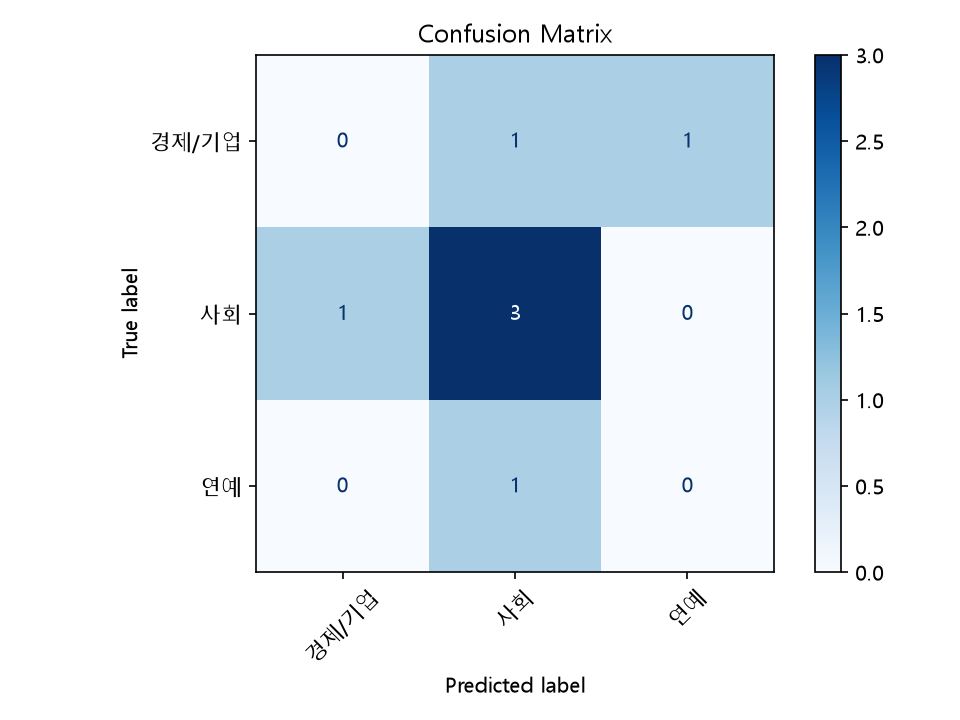
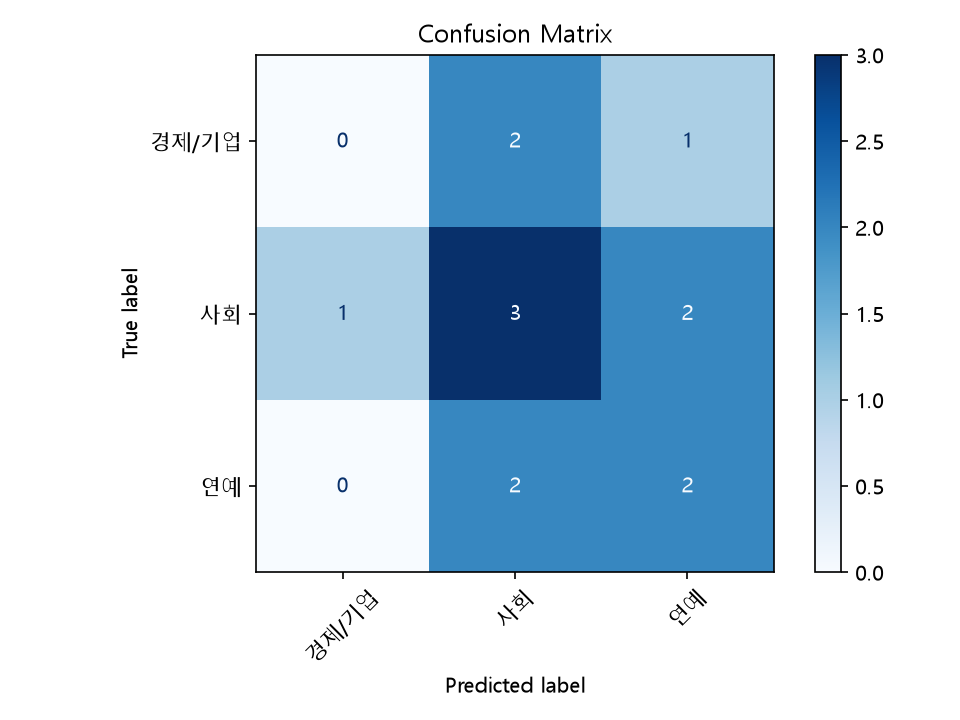
4th commit (고도화만 남음)

Changed region(s): [[0.4375, 0.0611, 0.8125, 0.7944]]

diff --git a/app/data.py b/app/data.py
@@ -33,6 +33,31 @@ SAMPLE_DATA: List[Tuple[str, str]] = [
     ("‘10kg 감량’ 안은진, 선명한 쇄골·슬림 실루엣 ‘눈길’", "연예"),
     ("'박사까지 땄는데 집에서 놉니다'…12년 만에 최악 결과", "사회"),
     ("[단독] 캐나다 '12척 체제 못 버텨'…잠수함 수주 승부처는 '정비'", "경제/기업"),
+    ("리센느, 경주 홍보대사 위촉… '신라공주' 제나 꿈 이뤘다 [공식]", "연예"),
+    ("소지섭·최대훈·윤경호의 '김부장', 세고 웃긴 '힘순찐' 아빠들…美친 재미 ", "연예"),
+    ("장윤정, 아들딸 '학비만 14억' 국제학교 보내더니…'새벽에 일어나 도시락 싸'", "연예"),
+    ("‘학벌금수저’ 김민경, 통장 잔고 5만7000원 고백…'신용카드 긁는 중'", "연예"),
+    ("진구, '신입사원 강회장' 뒤집은 반전 활약", "연예"),
+    ("전미선 사망 7주기, 여전히 그리운 얼굴", "연예"),
+    ("서인영, 명품 가방인 줄 알았는데…쿠팡 8만 원짜리", "연예"),
+    ("‘19기 상철♥’ 옥순, 11월 결혼 앞두고 병원行…목에 큰 밴드 ‘눈길’", "연예"),
+    ("‘김무열♥’ 윤승아, 깊어진 우아함…럭셔리 커버 장식", "연예"),
+    ("이준석 내란 종식 위해 호남으로 가야한다더니 이제는 ‘기업의 선택’이라고 해⋯결론 먼저 내려놓고 기업의 팔 비트는 사람들 면허 정지돼야", "사회"),
+    ("공항 3시간 전 도착? 큰일나…나오는 데만 6시간 걸린다는 유럽공항, 무슨 일", "사회"),
+    ("[단독] 정부, 5월 '보완수사권 폐지' 입장 전해와… 與 비공개 의총서 무슨 말 오갔나", "사회"),
+    ("내달 '가짜뉴스 처벌법' 시행…카톡 빠지고 오픈채팅 포함", "사회"),
+    ("내년 연차 쓰면 최장 9일 '황금연휴' 언제?…공휴일 총 72일, 휴일 119일", "사회"),
+    ("홍준표 호남 반도체 찬성했더니 감히 나를?..자격 있나", "사회"),
+    ("휴대폰 가져오지 마 학생들 앞에서 휴대전화 부순 中 교사들", "사회"),
+    ("‘수원 마약 좀비’ 영상 속 30대男 소변 정밀감정 결과 나왔다", "사회"),
+    ("서울 아파트값, 4개월만에 25개 자치구 모두 상승", "사회"),
+    ("1위 기업이 어쩌다 연초 대비 주가 반토막…오너리스크에 '휘청' 했지만", "경제/기업"),
+    ("개미들 어쩌나…'천원으로 건물주' 열풍, 결국 신기루였나", "경제/기업"),
+    ("이재용 삼성전자 회장 신규 반도체 팹 부지는 광주…로봇 투자는 구미에 집중", "경제/기업"),
+    ("李, 이재용·최태원에 국민영웅…삼성·SK 4755조원 국내 투자", "경제/기업"),
+    ("김규리 “오물 투척하는 분께 미리 알린다” 공개 저격, 무슨일", "연예"),
+    ("이토 히로부미 참배한 안중근 외아들의 충격 행보", "사회"),
+    ("나만 주식 없어 포모 피로감에…‘조모’로 위안 얻는 사람들", "경제/기업"),
 ]
 
 

diff --git a/app/preprocess.py b/app/preprocess.py
@@ -13,7 +13,7 @@ _okt = Okt()
 
 STOP_WORDS = {
     "에", "더니", "한", "도", "로", "만에", "왜", "마저", "에서", "하자", "이", "까지", "는", "은", "가", "을", "를", "의", "와", "과",
-    "으로", "에서", "하다", "있다", "되다", "그", "저", "것",
+    "으로", "에서", "하다", "있다", "되다", "그", "저", "것", "단독",
 }
 
 